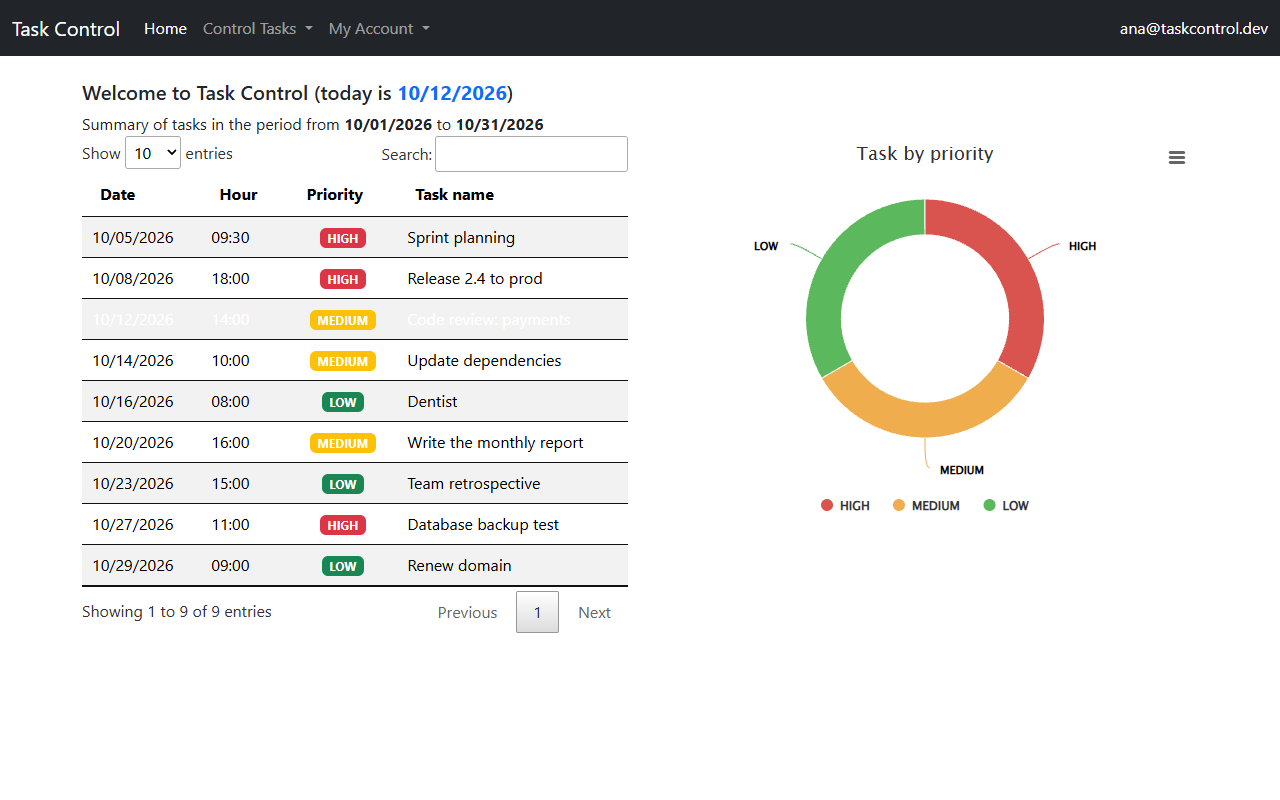
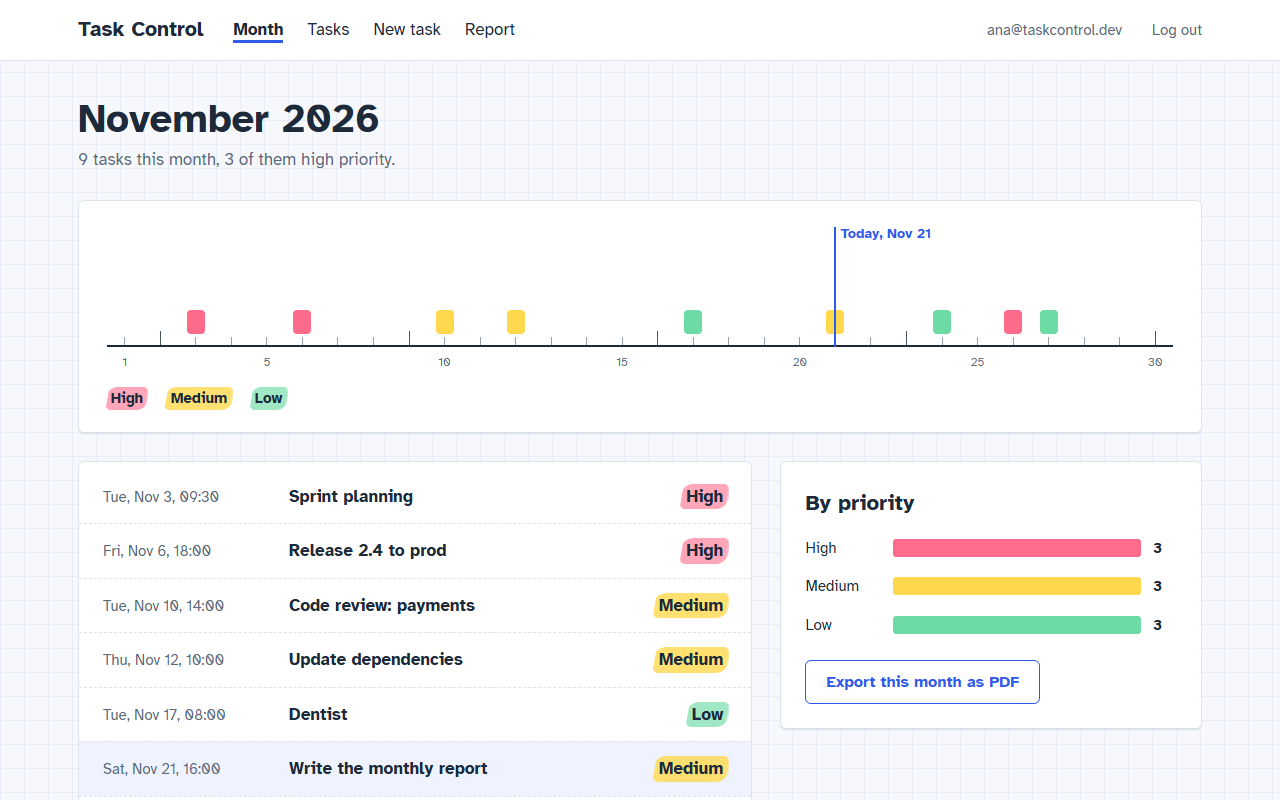
Update the README for the redesign
New screenshots and tour GIF of the redesigned app, and the text no
longer mentions charts, Highcharts, DataTables, Bootstrap or jQuery: it
describes the month ruler, the searchable list, the PDF export and the
own stylesheet, and the tests that now cover the PDF report.

diff --git a/README.md b/README.md
@@ -2,29 +2,30 @@
 
 [![CI](https://github.com/joaogqueiroz/TaskControl/actions/workflows/ci.yml/badge.svg)](https://github.com/joaogqueiroz/TaskControl/actions/workflows/ci.yml)
 
-A full-stack task manager built with ASP.NET Core MVC. People create an account, register and edit their tasks with a date, time and priority, see their tasks in charts, and export reports to PDF.
+A full-stack task manager built with ASP.NET Core MVC. People create an account, register and edit their tasks with a date, time and priority, see the month on a ruler, and export reports to PDF.
 
 ## Screenshots
 
-![Tour: login, dashboard with the month's tasks by priority, task list, new task and the report page](docs/images/tour.gif)
+![Tour: login, the month with its ruler of tasks, the task list, a new task and the report page](docs/images/tour.gif)
 
-| Login | Dashboard | Tasks |
+| Login | Month | Tasks |
 | --- | --- | --- |
-| ![Login page](docs/images/login.png) | ![Dashboard with the month's tasks and a chart by priority](docs/images/dashboard.png) | ![Task list with update and delete](docs/images/tasks.png) |
+| ![Login page](docs/images/login.png) | ![The month: a ruler with a mark for each task, the tasks by date and the count by priority](docs/images/dashboard.png) | ![Task list with search, edit and delete](docs/images/tasks.png) |
 
 ## Features
 
 - **Accounts:** registration, login with cookie authentication, password change and password recovery by email. Passwords are hashed with ASP.NET Core Identity's `PasswordHasher` (PBKDF2 with a per-user salt).
 - **Password recovery:** the page gives the same answer whether or not the e-mail has an account. A registered e-mail gets a link with a random 256-bit token that works once and expires in 30 minutes; only its SHA-256 hash is stored, in `PASSWORD_RESET_TB`. The person chooses the new password on the link's page, and asking for a new link cancels the previous one. The link is built from the `AppUrl` setting, never from the request's Host header.
 - **Tasks:** create, list, edit and delete tasks with a name, description, date, time and priority. Every read, update and delete of a task is filtered by its owner, so another user's task id answers "Task not found". Deleting is a POST with an anti-forgery token.
-- **Dashboard:** Highcharts charts of the user's tasks.
-- **Reports:** PDF reports of tasks in a date range, generated with iText 7.
+- **Month:** the dashboard opens with a ruler of the days, a mark for each task (pink for high priority, yellow for medium, green for low) and today's position, the tasks by date, the count by priority and a button that exports the month as a PDF. The task list is searchable.
+- **Reports:** PDF reports of tasks in a date range, generated with iText 7.2 and built without the network.
+- **Front end:** Razor views with their own stylesheet and a small script (no Bootstrap, jQuery or chart library), Atkinson Hyperlegible served from `wwwroot/fonts`, and a layout that works down to a phone width.
 
 ## Architecture
 
 ```mermaid
 flowchart TB
-    browser(["Browser"]) -- "cookie auth" --> mvc["TaskControl<br/>ASP.NET Core MVC: controllers, view models,<br/>Razor views, Highcharts dashboard"]
+    browser(["Browser"]) -- "cookie auth" --> mvc["TaskControl<br/>ASP.NET Core MVC: controllers, view models,<br/>Razor views, own CSS"]
     mvc --> data["TaskControl.Data<br/>entities and repositories (Dapper)"]
     mvc --> reports["TaskControl.Reports<br/>PDF reports (iText 7)"]
     mvc --> messages["TaskControl.Messeges<br/>email service"]
@@ -62,7 +63,7 @@ sequenceDiagram
 
 ## Tech stack
 
-C# · .NET 8 · ASP.NET Core MVC · Razor · Dapper · SQL Server · iText 7 · Highcharts · DataTables · Bootstrap 5.3 · jQuery 3.7
+C# · .NET 8 · ASP.NET Core MVC · Razor · Dapper · SQL Server · iText 7 · plain CSS and JavaScript
 
 ## Running locally
 
@@ -79,7 +80,7 @@ dotnet run --project TaskControl
 
 ## Tests
 
-- `TaskControl.UnitTests` checks the form validation: required fields, lengths that match the database columns, e-mail format, the strong-password rule, dates and hours in the format the date and time inputs post, and report periods that end before they start. It also covers password recovery: the reset token and its hash, the same message for registered and unknown e-mails (also when sending fails), a link built from `AppUrl` even with a forged Host header, no password change until the link is used, and invalid or used tokens changing nothing. For tasks, the owner sent to the repository is always the signed-in user, and delete only accepts a POST with an anti-forgery token.
+- `TaskControl.UnitTests` checks the form validation: required fields, lengths that match the database columns, e-mail format, the strong-password rule, dates and hours in the format the date and time inputs post, and report periods that end before they start. It also covers password recovery: the reset token and its hash, the same message for registered and unknown e-mails (also when sending fails), a link built from `AppUrl` even with a forged Host header, no password change until the link is used, and invalid or used tokens changing nothing. The PDF report is built without the network, with and without tasks, and the report action returns it as a file. For tasks, the owner sent to the repository is always the signed-in user, and delete only accepts a POST with an anti-forgery token.
 - `TaskControl.IntegrationTests` runs the Dapper repositories against a real SQL Server. [Testcontainers](https://dotnet.testcontainers.org/) starts SQL Server 2022 in Docker and creates the tables from `SQLQuerys.sql`, so the only requirement is a running Docker. They cover sign-up, login and password changes with the hashed passwords, creating, listing, filtering by period, updating and deleting tasks, and the error cases: duplicate e-mails, values longer than their columns, tasks for users that do not exist, unknown ids and reversed periods. Password reset tokens work once, stop working when they expire or when a new one is requested, and change the password at the end of the flow. Another user's task cannot be read, updated or deleted.
 
 ```sh
